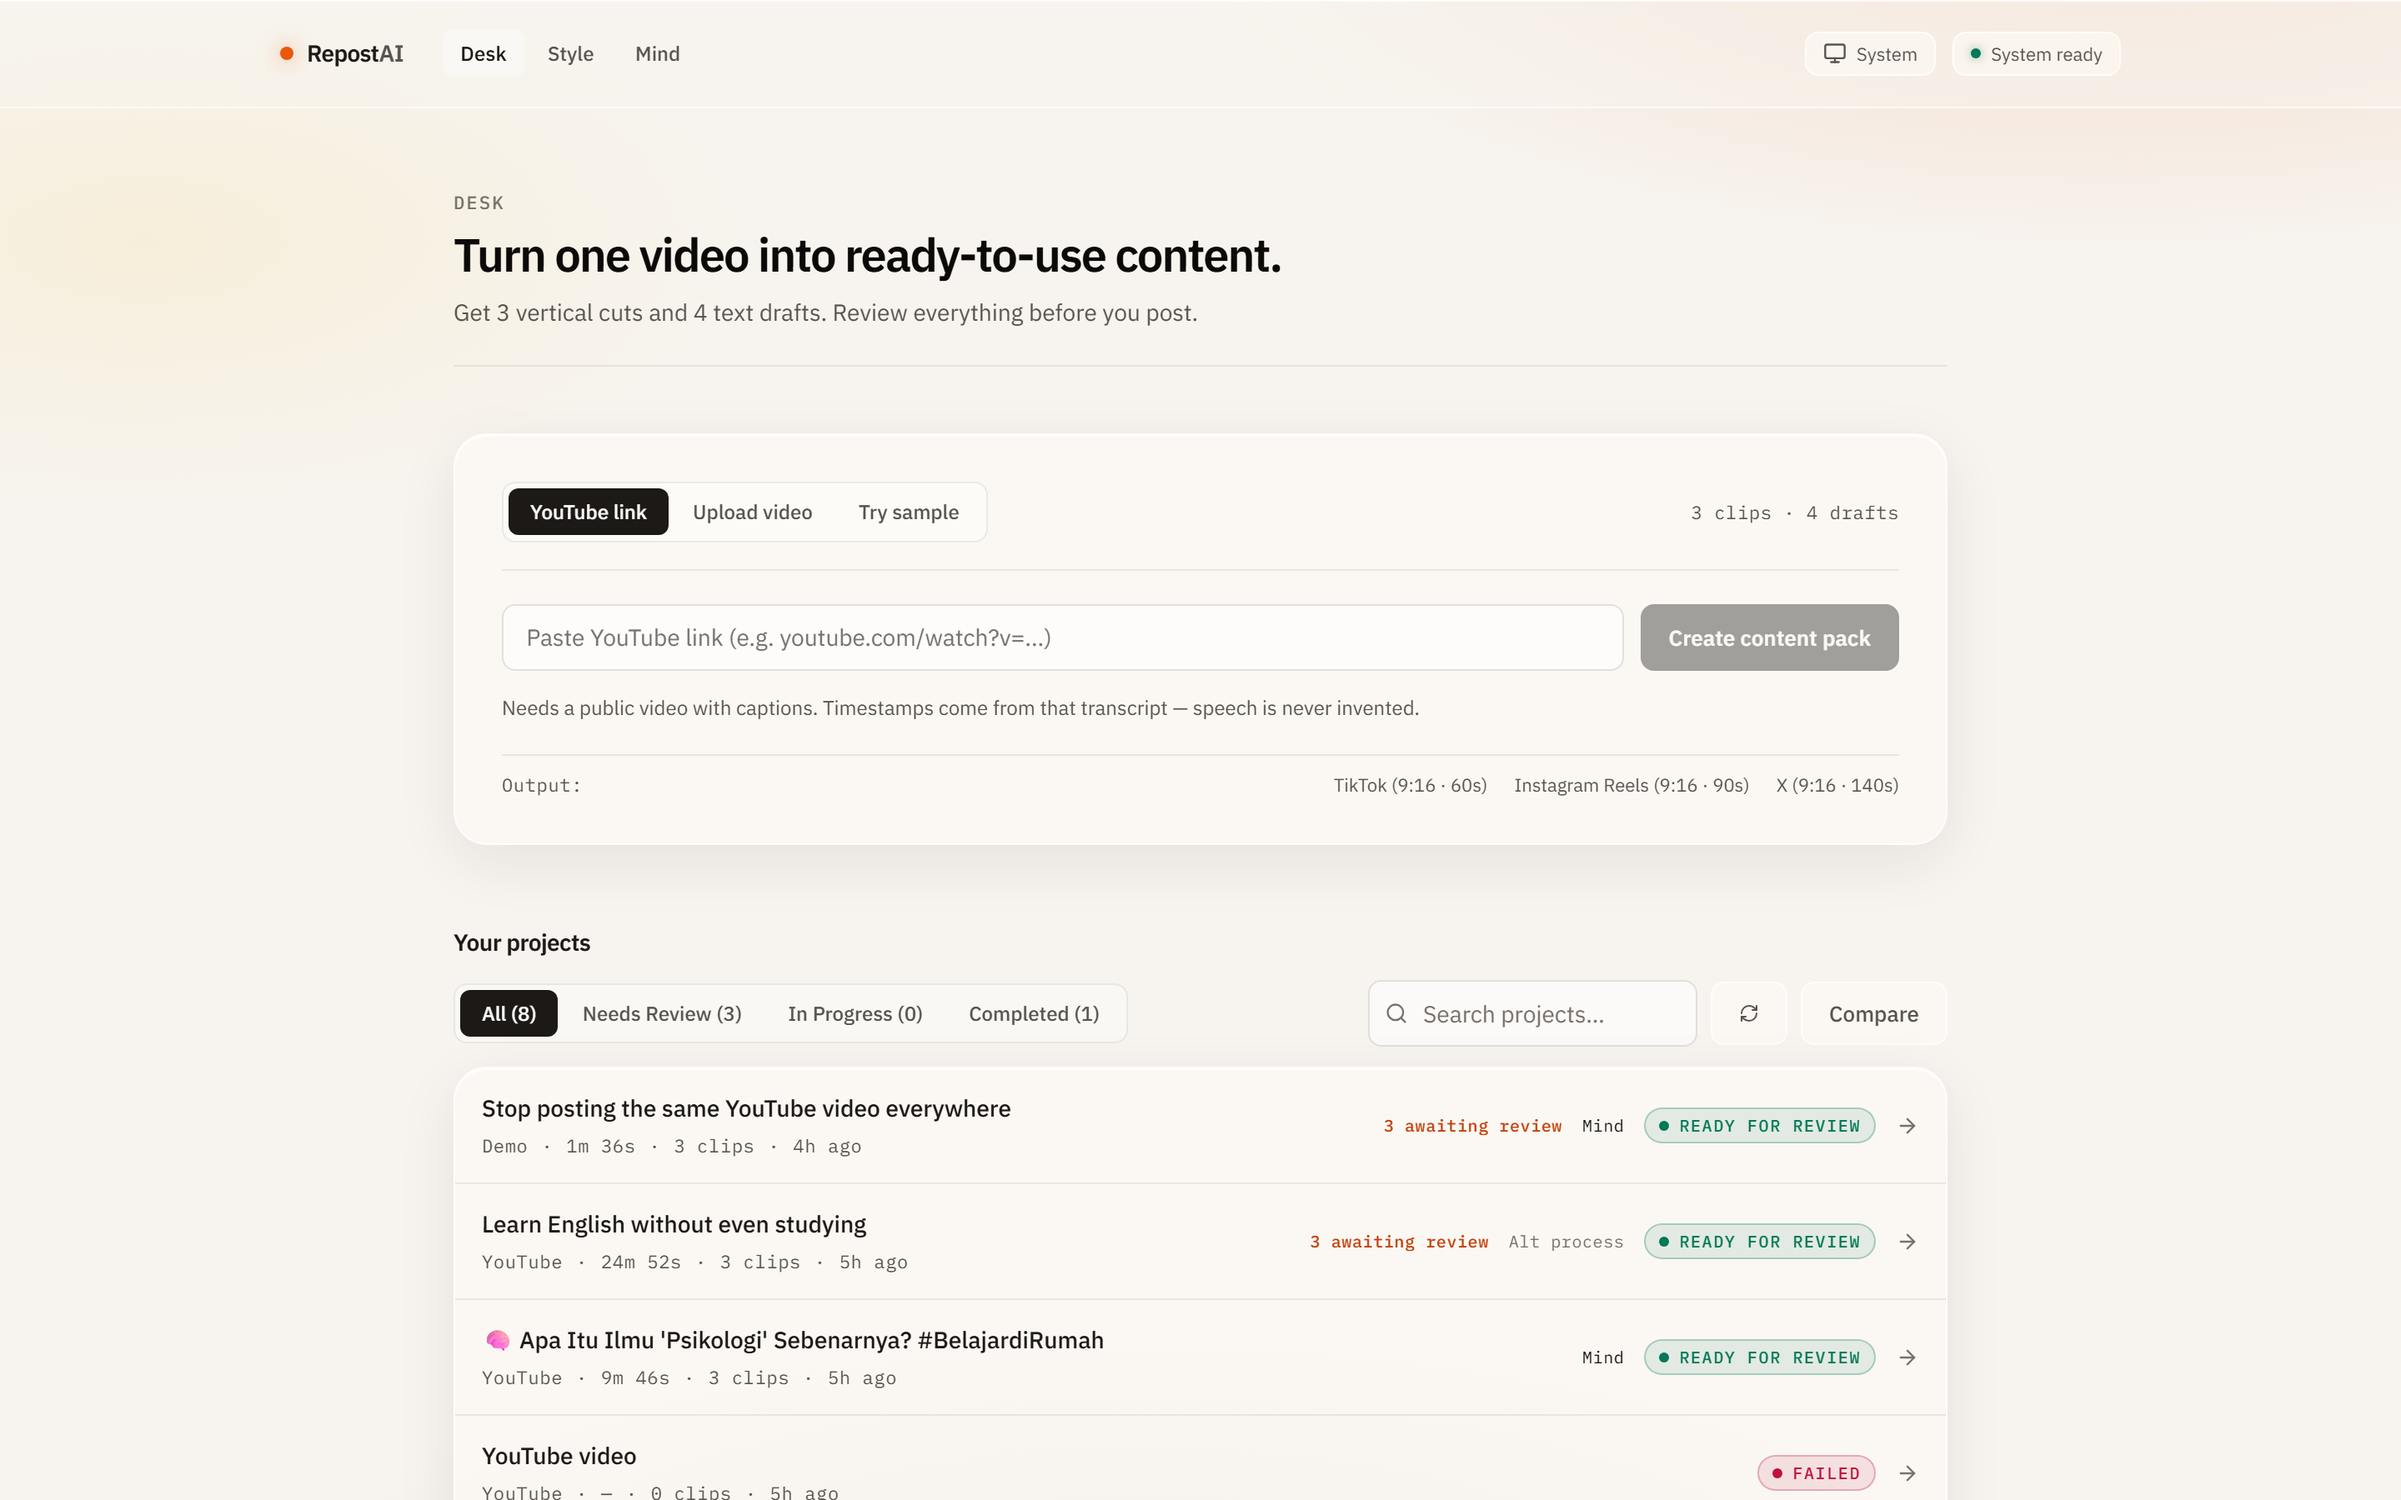
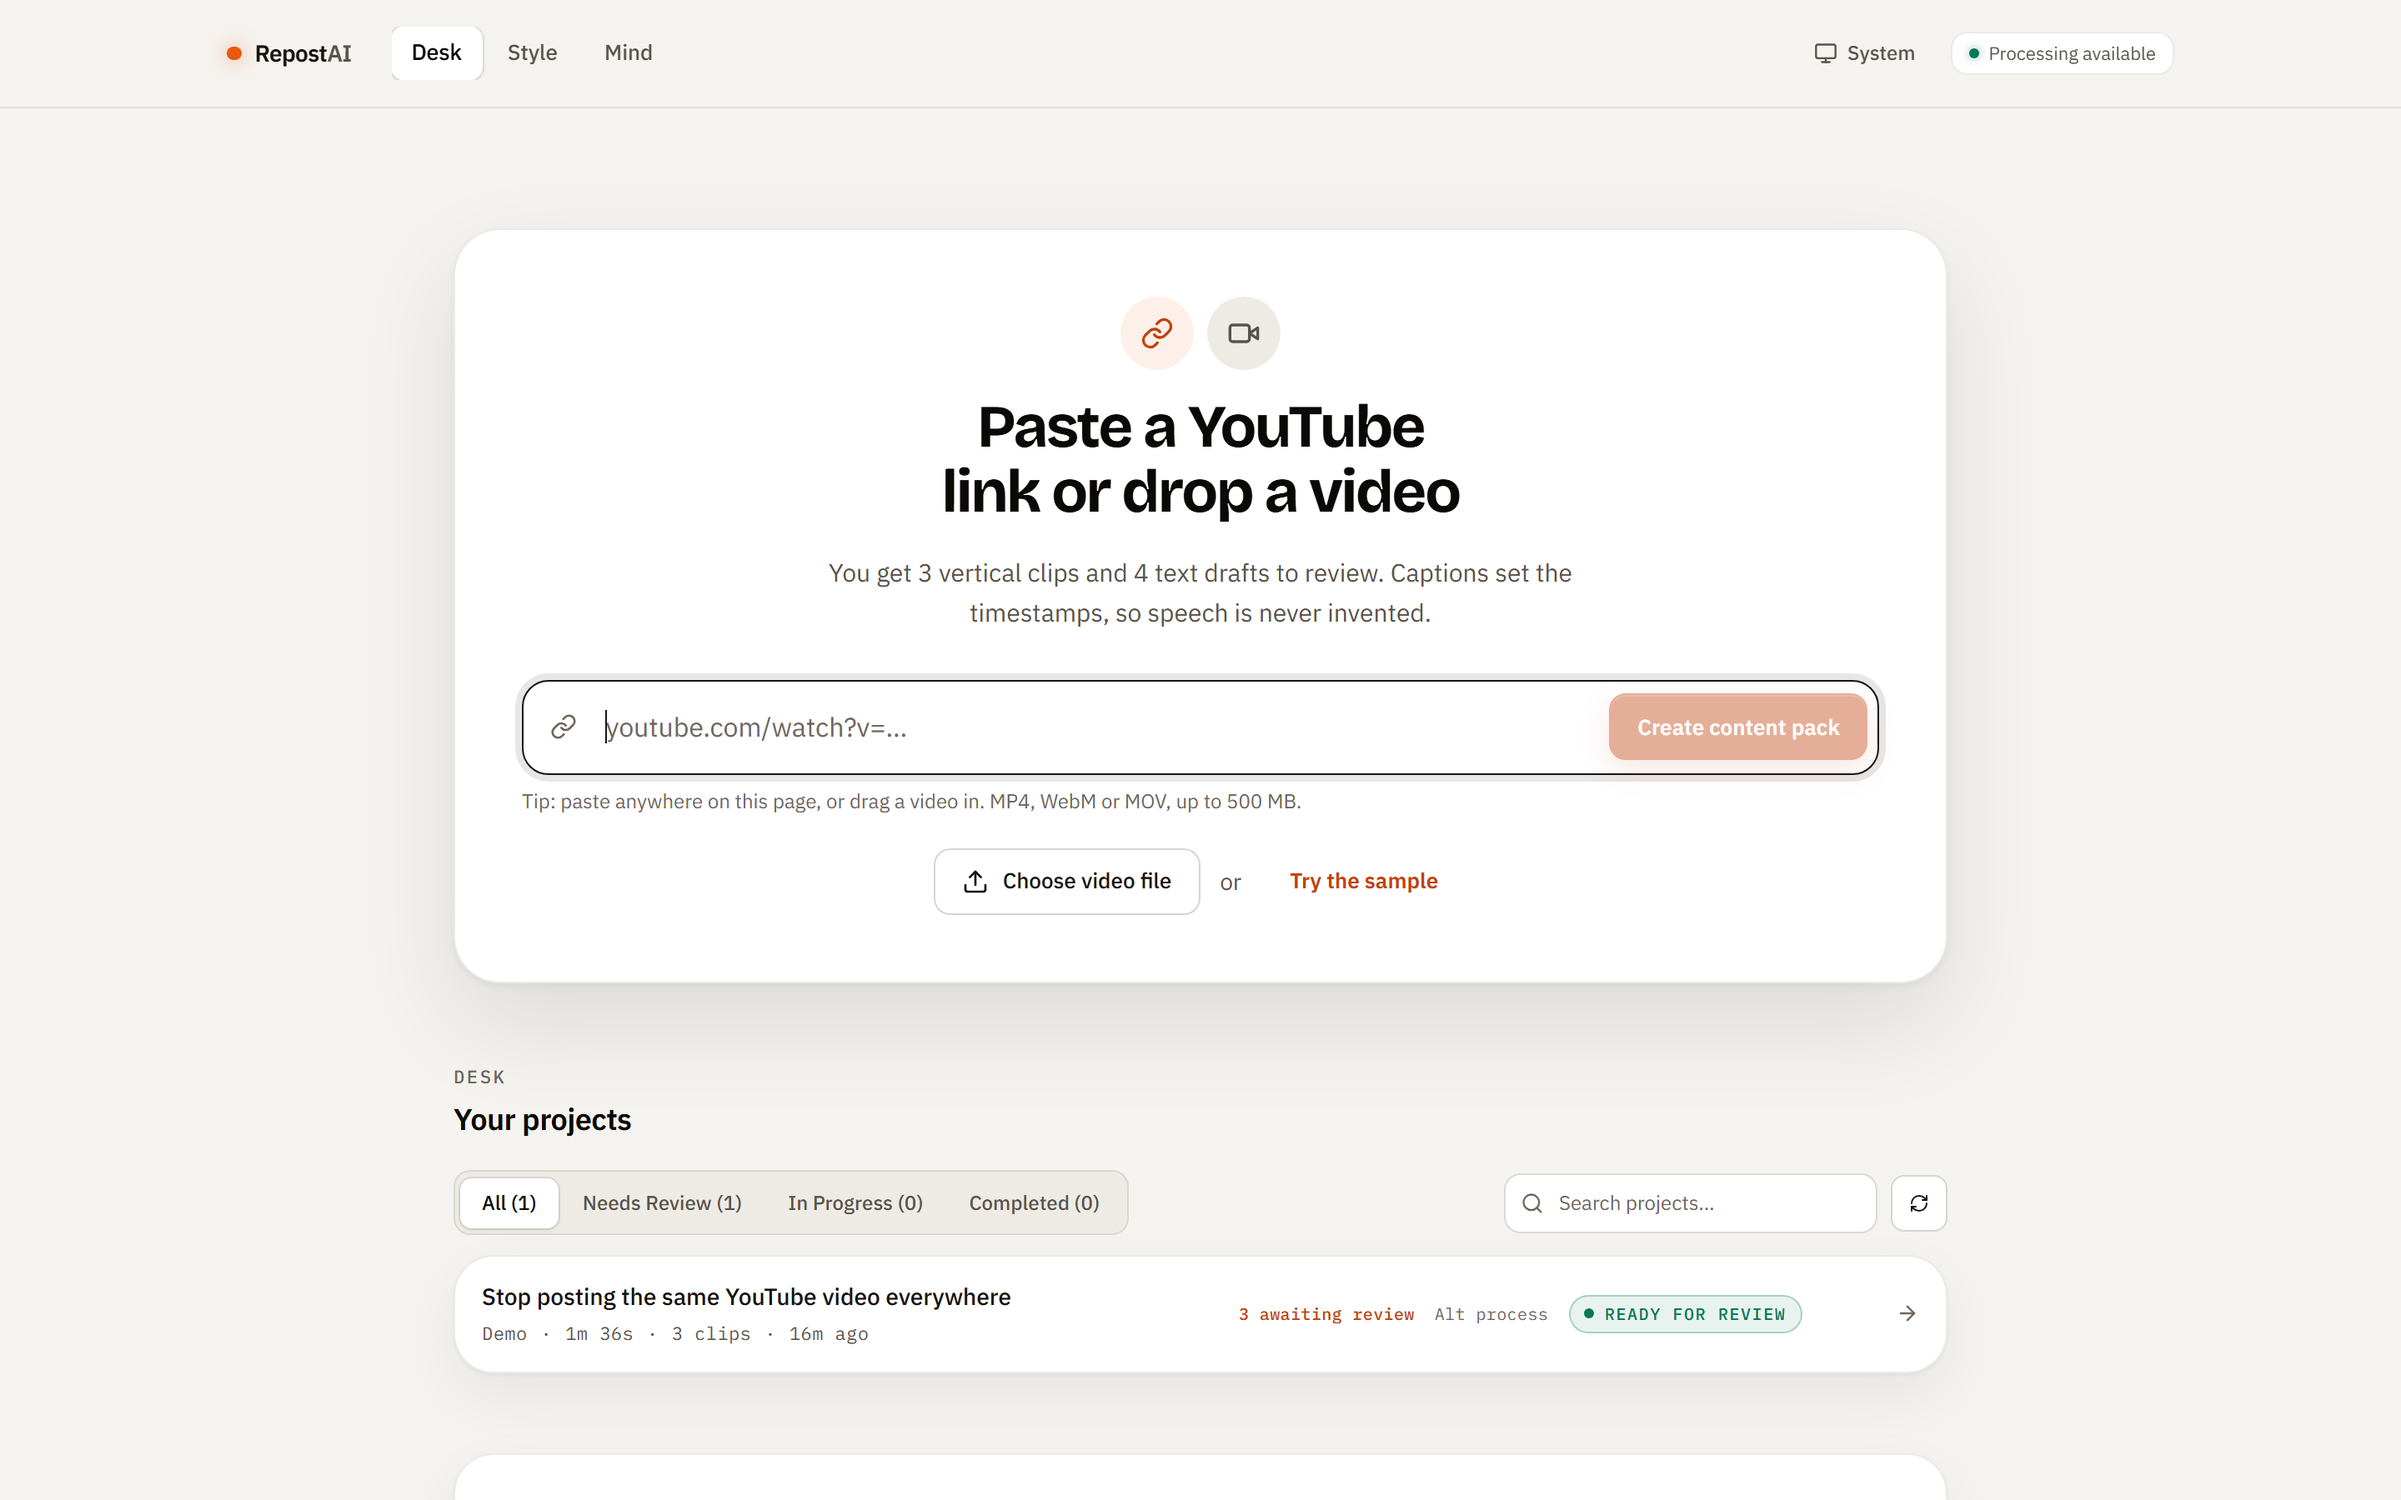
docs: refresh desk and landing screenshots, show the processing view

diff --git a/README.md b/README.md
@@ -34,17 +34,23 @@ Nothing posts. MP4s download one at a time.
 Pick a source  →  Wait  →  Review what is left  →  Take the pack
 ```
 
-1. **Start** on `/desk` — YouTube link, upload + optional caption URL, or the labeled **Demo data** sample.
+1. **Start** on `/desk` — paste a YouTube link, drop a video file plus its YouTube link for captions, or **Try the sample**.
 2. **Wait** — reading source, finding moments, preparing clips. The page updates by itself.
 3. **Review** — sticky bar shows `ready / need review`. Edited clips count as **Ready**.
 4. **Take** — **Copy pack** copies ready clips plus all four drafts. Download each MP4 separately.
 
 Optional: **Style** (`/voice`) is keep/stop rules from those reviews. **Mind** (`/mind`) is the agent status. You do not need either page to finish a pack.
 
-**Start** on the desk — paste a YouTube link, upload, or try the sample.
+**Start** on the desk — one box takes everything. Paste a YouTube link (anywhere on the page works) to see its title and thumbnail, drag a video in and the box grows into a drop zone, or try the sample.
 
 <p align="center">
-  <img src="docs/screenshots/desk.png" alt="Desk — paste a YouTube link or run the demo sample" width="920" />
+  <img src="docs/screenshots/desk.png" alt="Desk — one box for a YouTube link, a dropped video file, or the sample" width="920" />
+</p>
+
+**Watch** it work — the bar follows the backend's real stage, download size and clip count, and the three 9:16 frames fill in as each cut finishes.
+
+<p align="center">
+  <img src="docs/screenshots/processing.png" alt="Processing — cutting clip 2 of 3, with live progress and the 9:16 frames filling in" width="920" />
 </p>
 
 **Review** the pack — three 9:16 clips, hooks, captions, and Copy pack. Nothing publishes.
@@ -61,7 +67,7 @@ Fallback recipes exist if the agent is offline — the desk labels that **Alt pr
 
 ### Prove persistence (pack 1 → pack 2)
 
-1. Open [`/desk`](http://localhost:3000/desk), run **Try sample** or a **public YouTube URL with captions**.
+1. Open [`/desk`](http://localhost:3000/desk), run **Try the sample** or paste a **public YouTube URL with captions**.
 2. Reject one clip with a note (for example `skip cold intros`) and/or save a shorter caption.
 3. Open **Style** — keep/stop rules. Open **Mind** → Conversation if you want the transcript.
 4. Run a second pack.
@@ -190,11 +196,11 @@ pnpm dev
 | [http://localhost:3000/mind](http://localhost:3000/mind) | Mind status |
 | [http://localhost:3000/jobs/compare](http://localhost:3000/jobs/compare) | Compare two packs |
 
-YouTube jobs need **captions**. Upload-only has no speech-to-text unless you also paste a captioned YouTube URL on the upload tab.
+YouTube jobs need **captions**. Upload-only has no speech-to-text, so after you drop a file the desk asks for that video's captioned YouTube link.
 
 ### Demo sample
 
-On the desk, open **Try sample**. There is one **Demo data** clip: *Stop posting the same YouTube video everywhere*. It skips YouTube download, uses the built-in transcript, and writes local 9:16 files.
+On the desk, click **Try the sample**. It runs one built-in demo source: *Stop posting the same YouTube video everywhere*. It skips YouTube download, uses the built-in transcript, and writes local 9:16 files.
 
 ### Other commands
 
